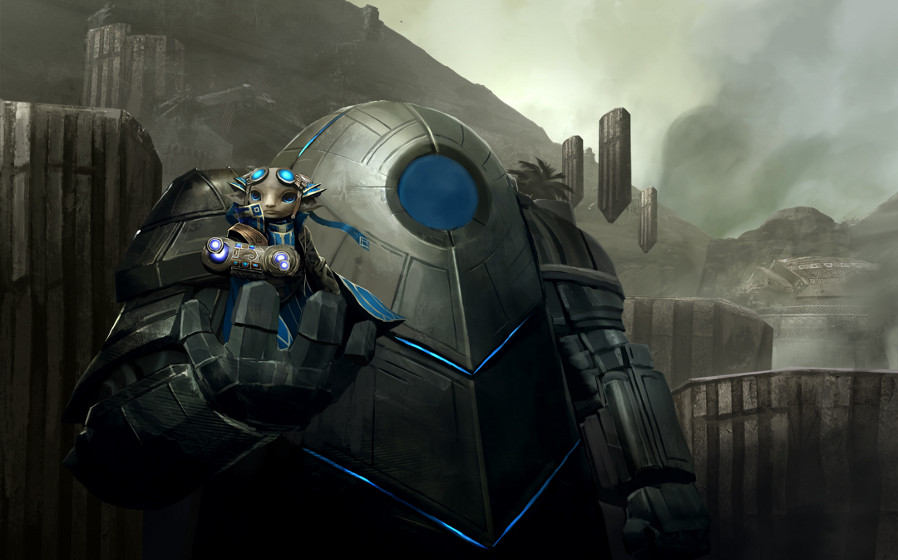
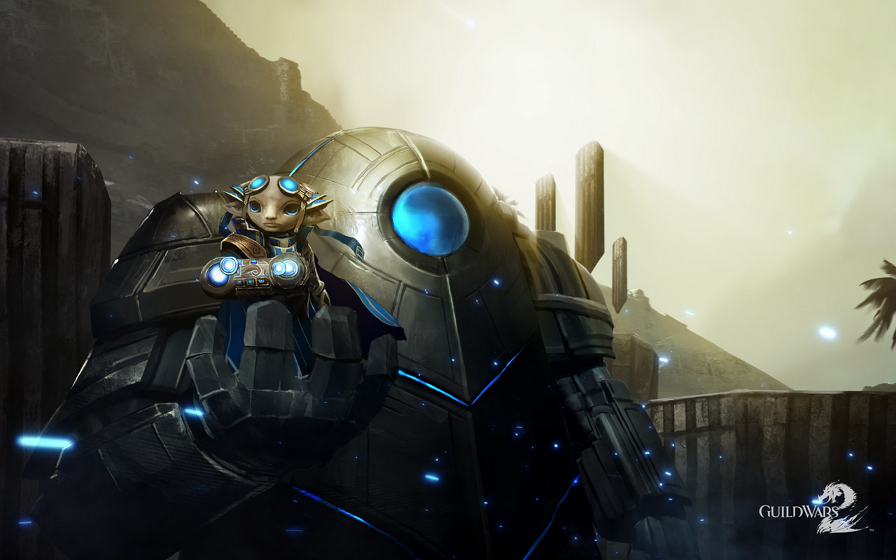
0.2.3: more backgrounds

diff --git a/public/index.html b/public/index.html
@@ -65,9 +65,6 @@
 				opacity:0.8;
 				filter:alpha(opacity=80);
 			}
-			.progress{
-				heigth: 15px;
-			}
 			.navbar select{
 				height: 26px;
 				padding: 2px 4px;
@@ -575,15 +572,21 @@
 					<ul class="nav pull-right" style="margin-right: 30px;">
 						<li class="navbar-text"><span class="localized">Background:</span> 
 							<select id="backselect" style="margin-bottom:0px;width:145px;">
-								<option value="asura1" selected>Asura 1</option><option value="asura2">Asura 2</option><option value="asura3">Asura 3</option><option value="ascalon">Ascalon</option>
+								<option value="asura1" selected>Asura 1</option><option value="asura2">Asura 2</option><option value="asura3">Asura 3</option><option value="asura4">Asura 4</option>
+								<option value="asura5">Asura 5</option><option value="golemcity" selected>Golemcity</option><option value="ascalon">Ascalon</option><option value="broken_mirror">Broken Mirror</option>
 								<option value="broken_ring">Broken Ring</option><option value="caithe1">Caithe 1</option><option value="caithe2">Caithe 2</option><option value="castle">Castle</option>
-								<option value="charr">Charr</option><option value="denravi">Denravi</option><option value="divinitys_garden">Divinitys Garden</option>
-								<option value="divinitys_reach1">Divinitys Reach 1</option><option value="divinitys_reach2">Divinitys Reach 2</option><option value="dragon_alley">Dragon Alley</option>
-								<option value="dragons_hand">Dragons Hand</option><option value="dragons_head">Dragons Head</option><option value="great_wall">Great Wall</option>
-								<option value="iceberg">Iceberg</option><option value="leviathan">Leviathan</option><option value="lions_arches">Lions Arches</option><option value="logan">Logan</option>
-								<option value="night_garden">Night Garden</option><option value="norn">Norn</option><option value="ranger">Ranger</option><option value="riven_earth">Riven Earth</option>
-								<option value="rytlock1">Rytlock 1</option><option value="rytlock2">Rytlock 2</option><option value="shatterer">Shatterer</option><option value="swamp">Swamp</option>
-								<option value="undead">Undead</option><option value="valley_of_gods">Valley of Gods</option><option value="valley_ruins">Valley Ruins</option><option value="zhaitan">Zhaitan</option>					
+								<option value="charr1">Charr 1</option><option value="charr2">Charr 2</option><option value="charr_barr">Charr Barr</option><option value="denravi">Denravi</option>
+								<option value="divinitys_garden">Divinitys Garden</option><option value="divinitys_reach1">Divinitys Reach 1</option><option value="divinitys_reach2">Divinitys Reach 2</option>
+								<option value="divinitys_reach3">Divinitys Reach 3</option><option value="dragon_alley">Dragon Alley</option><option value="dragons_hand">Dragons Hand</option>
+								<option value="dragons_head">Dragons Head</option><option value="earth_elemental">Earth Elemental</option><option value="eir">Eir</option><option value="elementalist">Elementalist</option>
+								<option value="engineer">Engineer</option><option value="great_wall1">Great Wall 1</option><option value="great_wall2">Great Wall 2</option><option value="halloween">Halloween</option>
+								<option value="human">Human</option><option value="iceberg">Iceberg</option><option value="leviathan">Leviathan</option><option value="lions_arches">Lions Arches</option>
+								<option value="logan1">Logan 1</option><option value="logan2">Logan 2</option><option value="necromancer">Necromancer</option><option value="night_garden">Night Garden</option>
+								<option value="norn1">Norn 1</option><option value="norn2">Norn 2</option><option value="norn3">Norn 3</option><option value="ranger1">Ranger 1</option><option value="ranger2">Ranger 2</option>
+								<option value="riven_earth">Riven Earth</option><option value="rytlock1">Rytlock 1</option><option value="rytlock2">Rytlock 2</option><option value="rytlock3">Rytlock 3</option>
+								<option value="shatterer">Shatterer</option><option value="swamp">Swamp</option><option value="sylvari1">Sylvari 1</option><option value="sylvari2">Sylvari 2</option>
+								<option value="sylvari3">Sylvari 3</option><option value="thief">Thief</option><option value="undead">Undead</option><option value="valley_of_gods">Valley of Gods</option>
+								<option value="valley_ruins">Valley Ruins</option><option value="warrior">Warrior</option><option value="zhaitan">Zhaitan</option>					
 							</select>
 						</li>
 						<li class="divider-vertical"></li>
@@ -655,7 +658,7 @@
 			</ul>
 			<ul class="nav pull-right" style="z-index:2;">
 				<li class="divider-vertical"></li>
-				<li><a>v.0.2.2</a></li>
+				<li><a>v.0.2.3</a></li>
 				<li class="divider-vertical"></li>
 				<li><a href="https://forum-en.guildwars2.com/forum/community/fangen/Game-Asura-Chess-v-0-1" title="Don't hesitate to provide Feedback! ;)" class="localized">GW2-Forum-Thread</a></li>
 			</ul>
